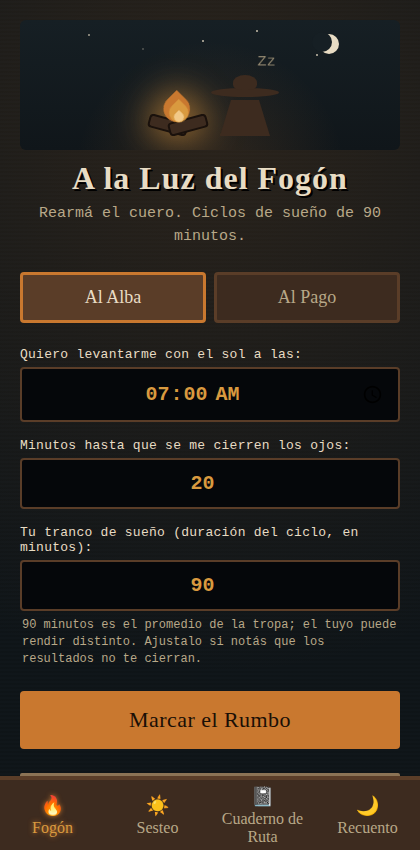
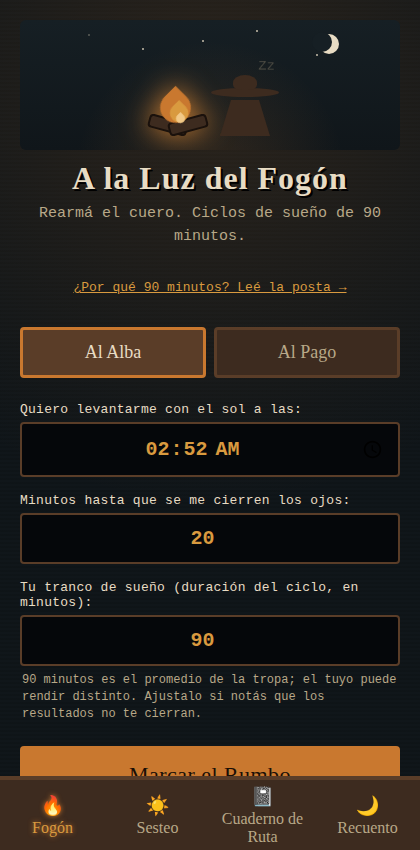
docs: marcar Fase 9 completa, capturas finales y cierre del rediseño
Actualiza el estado del rediseño (las 9 fases completas), refresca la
captura principal y agrega una de la página informativa. Documenta la
auditoría de QA final: tests, Lighthouse, mobile emulado y verificación
del deploy — incluyendo la limitación honesta de no tener un
dispositivo real ni WebKit disponibles en este entorno de trabajo.

Claude-Session: https://claude.ai/code/session_014bQx16PRqXZdMw4hHEsRT6

Changed region(s): [[0.031, 0.3059, 0.9595, 0.9176], [0.3714, 0.0918, 0.4643, 0.1529], [0.619, 0.0612, 0.65, 0.0918]]

diff --git a/README.md b/README.md
@@ -7,10 +7,10 @@ despertar o de acostarse, las horas de acostarse/despertar que caen en un
 número entero de ciclos — y permite llevar un registro del descanso real a
 lo largo del tiempo.
 
-> Proyecto en rediseño activo. La identidad visual (Fase 1 del rediseño)
-> ya migró de un concepto medieval a una estética gauchesca rioplatense
-> (campo argentino, ~1800–1900) en la vista de la calculadora. Ver el
-> estado del rediseño más abajo.
+> Rediseño completo (Fases 0 a 9, ver más abajo): de un archivo único con
+> estética medieval a una app con build, tests, accesibilidad WCAG AA,
+> PWA offline e identidad gauchesca rioplatense (campo argentino,
+> ~1800–1900).
 
 ![Captura de la vista principal](./docs/screenshot.png)
 
@@ -68,7 +68,7 @@ siguiente.
 - ✅ Fase 6 — Export/import de datos (backup manual)
 - ✅ Fase 7 — PWA real offline (manifest, service worker, íconos)
 - ✅ Fase 8 — Página informativa sobre la base científica de los ciclos de sueño
-- ⏳ Fase 9 — QA y deploy final
+- ✅ Fase 9 — QA y deploy final
 
 ## Fuentes consultadas
 
@@ -115,6 +115,51 @@ Fuentes citadas en el pie de esa vista:
 - [NHLBI (NIH) — Stages of Sleep](https://www.nhlbi.nih.gov/health/sleep/stages-of-sleep)
 - [Sleep Foundation — Stages of Sleep](https://www.sleepfoundation.org/stages-of-sleep)
 - [Nature and Science of Sleep — Sleep inertia: current insights](https://www.dovepress.com/sleep-inertia-current-insights-peer-reviewed-fulltext-article-NSS) (paper revisado por pares)
+
+![Captura de la página informativa](./docs/screenshot-info.png)
+
+## QA final (Fase 9)
+
+Antes de cerrar el rediseño:
+
+- **Tests**: los 64 tests de Vitest (`calc.test.js`, `metrics.test.js`,
+  `storage.test.js`) pasan en verde.
+- **Lighthouse** (build de producción, servido local): **98 performance
+  / 96 accesibilidad / 96 best practices / 100 SEO**. De la primera
+  corrida se corrigieron tres cosas reales:
+    - el `<meta name="viewport">` traía `user-scalable=no` y
+      `maximum-scale=1.0`, que bloqueaban el pinch-to-zoom — mal para
+      usuarios con baja visión y en contra del criterio de accesibilidad
+      que se viene sosteniendo desde la Fase 2. Se sacó.
+    - faltaba un landmark `<main>` — ahora envuelve las 5 vistas.
+    - faltaba `<meta name="description">` — se agregó.
+    - de paso, se agregaron `rel="preconnect"` a Google Fonts para achicar
+      el tiempo de bloqueo de esa hoja de estilos en el render inicial.
+
+    Quedó un aviso de contraste de color en el ítem activo del nav
+    (`3.85:1`, el mínimo AA es `4.5:1`) que revisé a mano: el color real
+    (`#d99a3f` sobre `#3d2b1f`) da `~5.5:1` calculado con la fórmula de
+    WCAG — pasa cómodo. La herramienta lo mide mal porque el
+    `text-shadow` (el brillo del texto activo) le contamina el muestreo
+    del fondo. No es un problema real, quedó documentado acá en vez de
+    "corregido" a ciegas.
+
+- **Mobile real**: no hay un dispositivo físico disponible en este
+  entorno de trabajo — ojo con esto, es la limitación más importante de
+  esta fase. Lo que sí se hizo, con Playwright emulando iPhone SE,
+  iPhone 13, Pixel 5 y un Android angosto (360px): cero desbordes
+  horizontales en ninguna de las 5 vistas, el zoom quedó habilitado en
+  los cuatro perfiles, y se agrandó el área tocable del link "¿Por qué
+  90 minutos?" (pasó de 23px a ~40px de alto). Esto corre sobre motor
+  Chromium, no WebKit real — Safari iOS en particular tiene mañas
+  propias con el `manifest.json` y el ícono de instalación que esto no
+  puede probar. Antes de dar el PWA por 100% validado en iOS, conviene
+  que lo abras una vez en un iPhone de verdad y pruebes "Agregar a
+  inicio".
+- **Deploy end-to-end**: confirmado en dos niveles — `git ls-remote`
+  contra GitHub muestra `main` en el commit correcto, y el sitio en vivo
+  (`bruneskycoder.github.io`) ya sirve el HTML, el `manifest.json` y el
+  `service-worker.js` esperados.
 
 ## PWA offline (Fase 7)
 
